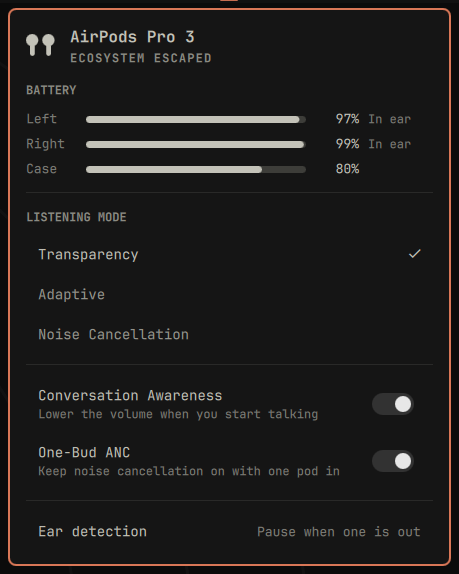
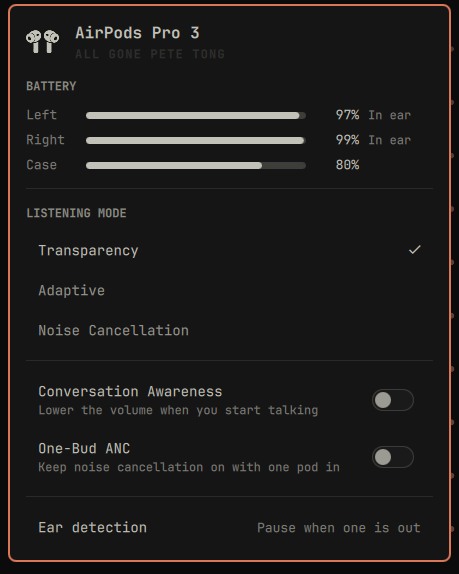
docs: show the three panels the capability keys produce
The six state screenshots still carried the old primitive mark, taken hours
before the outlines landed, so every one is retaken on the shipped build. A new
row above them puts an AirPods 4 with ANC, a Pro 3 and a Max 2 side by side,
which is the clearest way to show that the rows are built from what the daemon
says the device can do rather than from a fixed list.

diff --git a/README.md b/README.md
@@ -47,6 +47,25 @@
 
 ## Screenshots
 
+The panel is built from the capability keys the daemon publishes, so three
+different AirPods give three different panels. Same plugin, same build, nothing
+configured differently between them.
+
+| | | |
+|:---:|:---:|:---:|
+| <img src="docs/panel-model-airpods4.png" alt="AirPods 4 with ANC"><br>**AirPods 4 with ANC**<br>all four modes, and One-Bud ANC to hold them with one pod in | <img src="docs/panel-model-pro3.png" alt="AirPods Pro 3"><br>**AirPods Pro 3**<br>no Off row: the Pro 3 dropped it | <img src="docs/panel-model-max2.png" alt="AirPods Max 2"><br>**AirPods Max 2**<br>one battery, no case, and no One-Bud ANC to offer |
+
+Both AirPods 4 variants say **AirPods 4** in the title, because the name is the
+family and the rows underneath are what the unit can actually do. The plain
+AirPods 4 has no listening modes at all, so it gets no listening section.
+
+Every screenshot in this section, the Pro 3 included, was made by writing one
+status line by hand and photographing the panel that came back. An AirPods Pro 3
+is the only pair on hand here, and it would not have posed for all of these
+anyway. It works because the panel reads that file and nothing else.
+
+### States
+
 | | |
 |:---:|:---:|
 | <img src="docs/panel-noise-cancellation.png" alt="Noise Cancellation"><br>Noise Cancellation, both pods in | <img src="docs/panel-adaptive.png" alt="Adaptive"><br>Adaptive, with the noise level and Conversation Awareness on |
